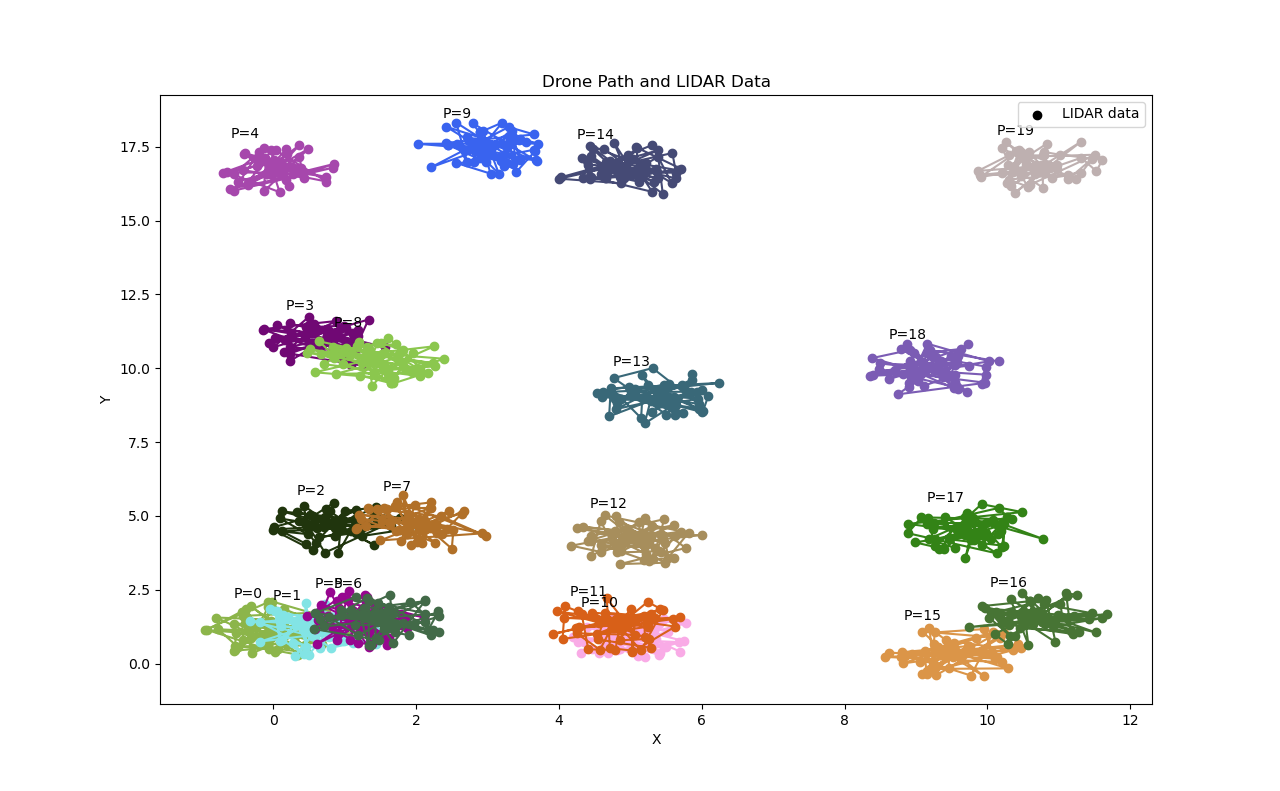
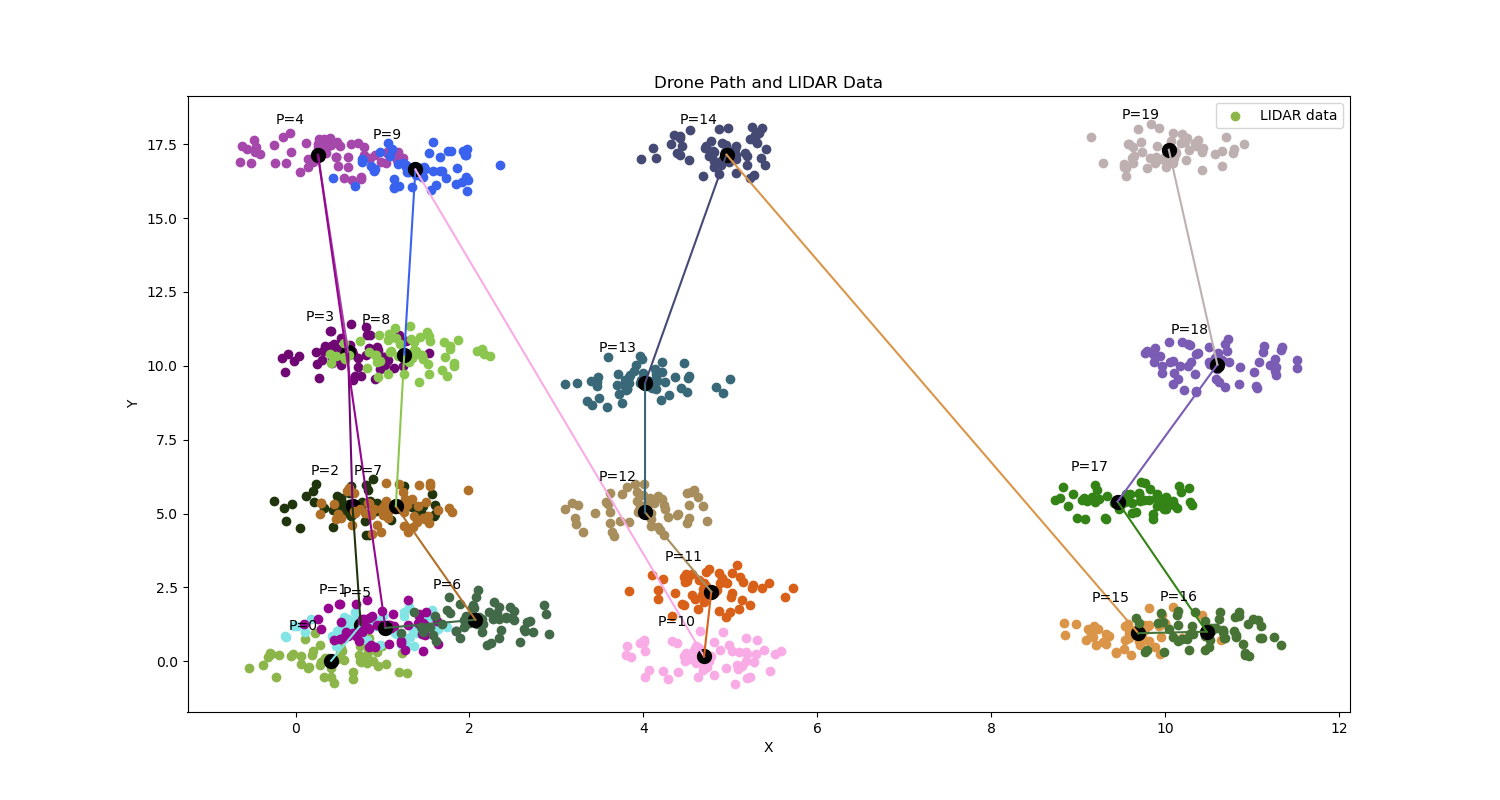
added drone path waypoints to visualization

diff --git a/libs/lidarutils.py b/libs/lidarutils.py
@@ -357,6 +357,16 @@ def VisualizeAllSweepsWithDronePath(
                 va="bottom",
             )
 
+            # Connect wayPoints
+            if sweepID > 0:
+                startPos = lidarSweepsList[sweepID - 1]["coordinates"]
+                endPos = position
+                ax.plot(
+                    [startPos[0], endPos[0]],
+                    [startPos[1], endPos[1]],
+                    color=color,
+                )
+
         # Add labels and legend
         ax.set_xlabel("X")
         ax.set_ylabel("Y")
@@ -402,16 +412,6 @@ def VisualizeRandomFlightPathAndSweep(positions, angles, distances, sampling=6):
         color = tuple(
             (randomState.random(), randomState.random(), randomState.random())
         )
-        # Plot the drone position
-        ax.scatter(position[0], position[1], color="black", marker="o")
-        ax.annotate(
-            f"P={index}",
-            xy=position,
-            xytext=(-20, 20),
-            textcoords="offset points",
-            ha="center",
-            va="bottom",
-        )
 
         # Plot the LIDAR data
         xPos = position[0] + distances[index][::sampling] * numpy.cos(
@@ -421,6 +421,27 @@ def VisualizeRandomFlightPathAndSweep(positions, angles, distances, sampling=6):
             angles[index][::sampling]
         )
         ax.scatter(xPos, yPos, color=color, marker="o", linewidths=1)
+
+        # Plot the drone position
+        ax.scatter(position[0], position[1], color="black", marker="o", linewidths=5)
+        ax.annotate(
+            f"P={index}",
+            xy=position,
+            xytext=(-20, 20),
+            textcoords="offset points",
+            ha="center",
+            va="bottom",
+        )
+
+        # Connect wayPoints
+        if index > 0:
+            startPos = positions[index - 1]
+            endPos = positions[index]
+            ax.plot(
+                [startPos[0], endPos[0]],
+                [startPos[1], endPos[1]],
+                color=color,
+            )
 
     # Add labels and legend
     ax.set_xlabel("X")
